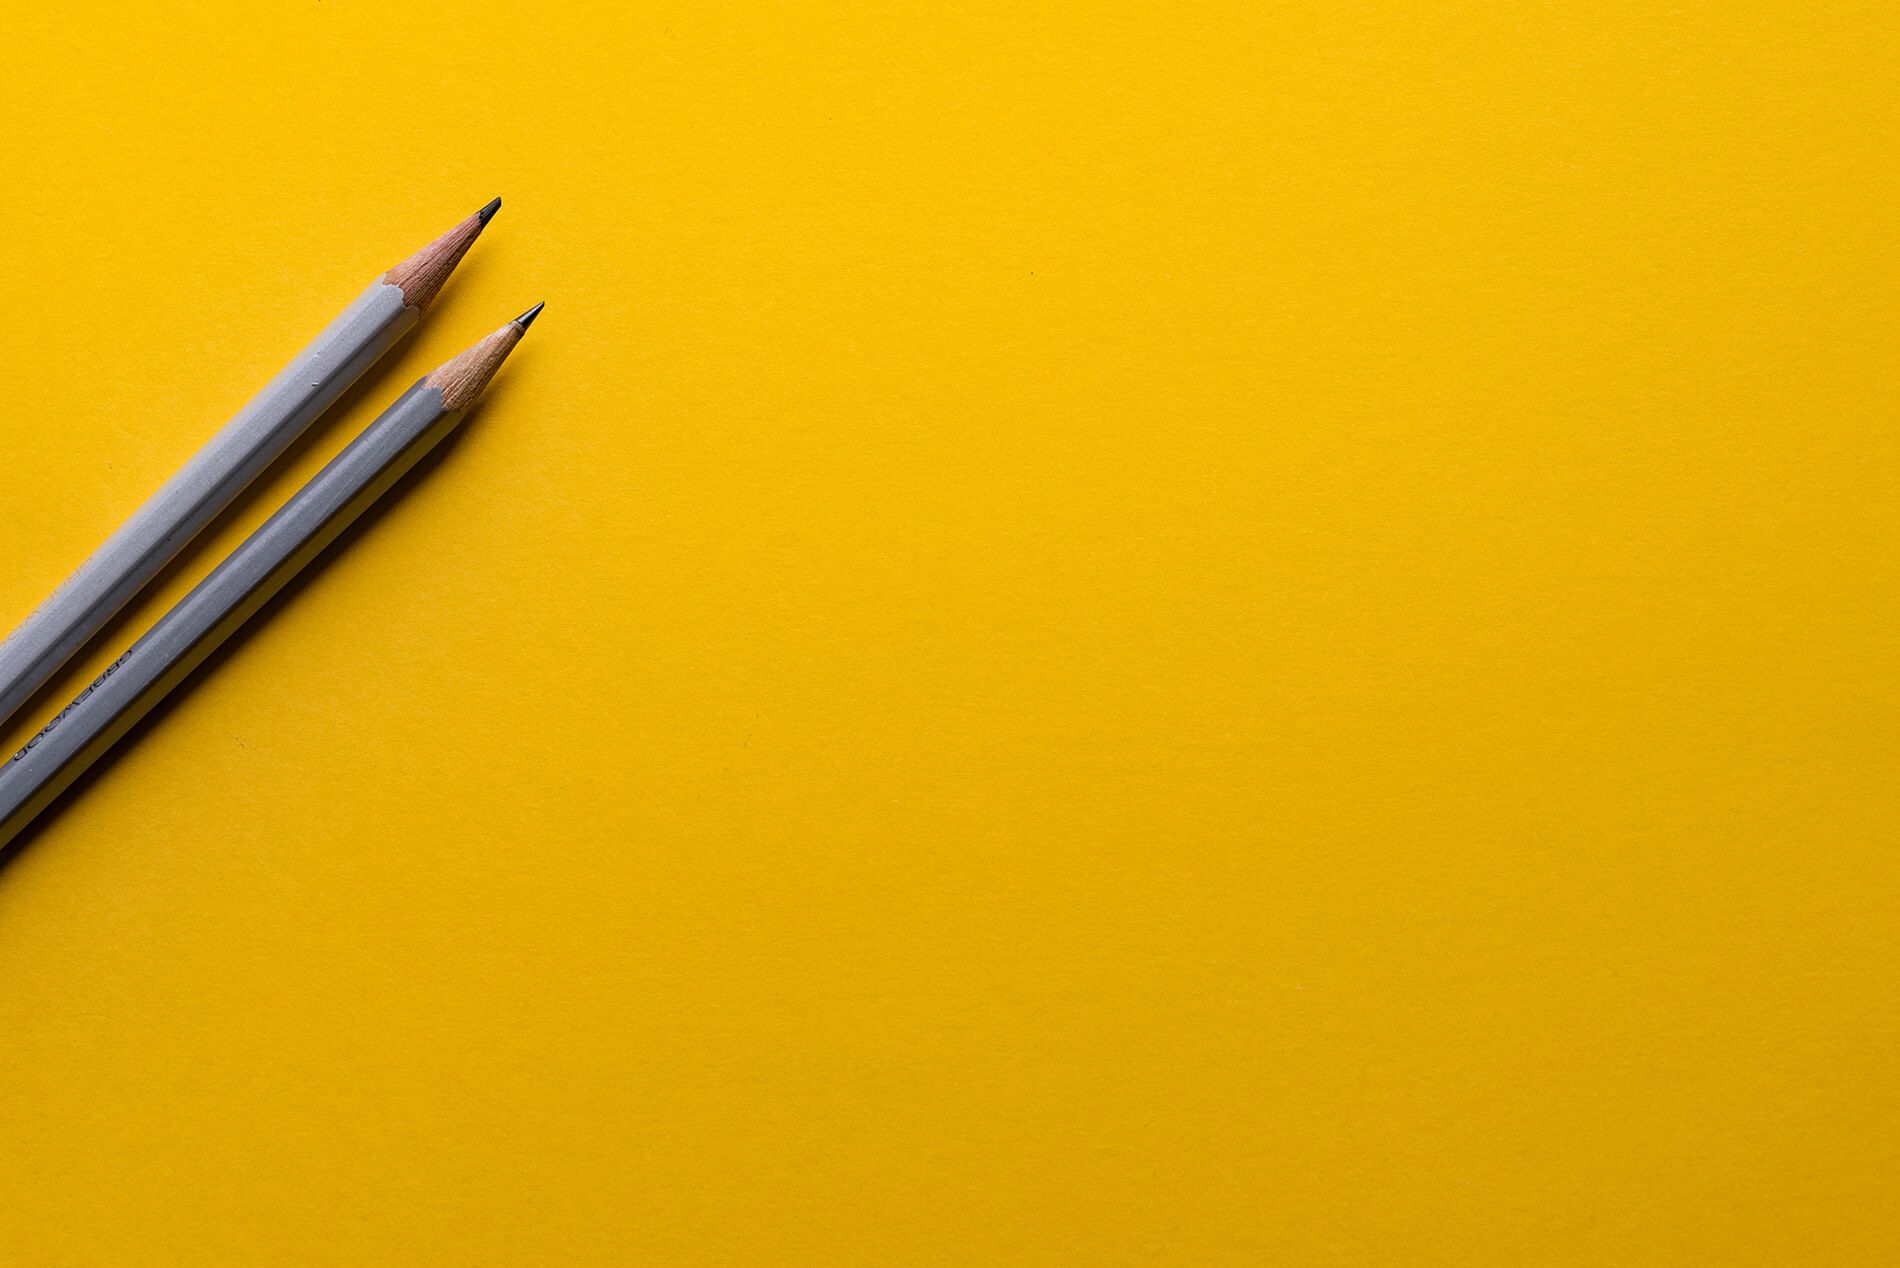
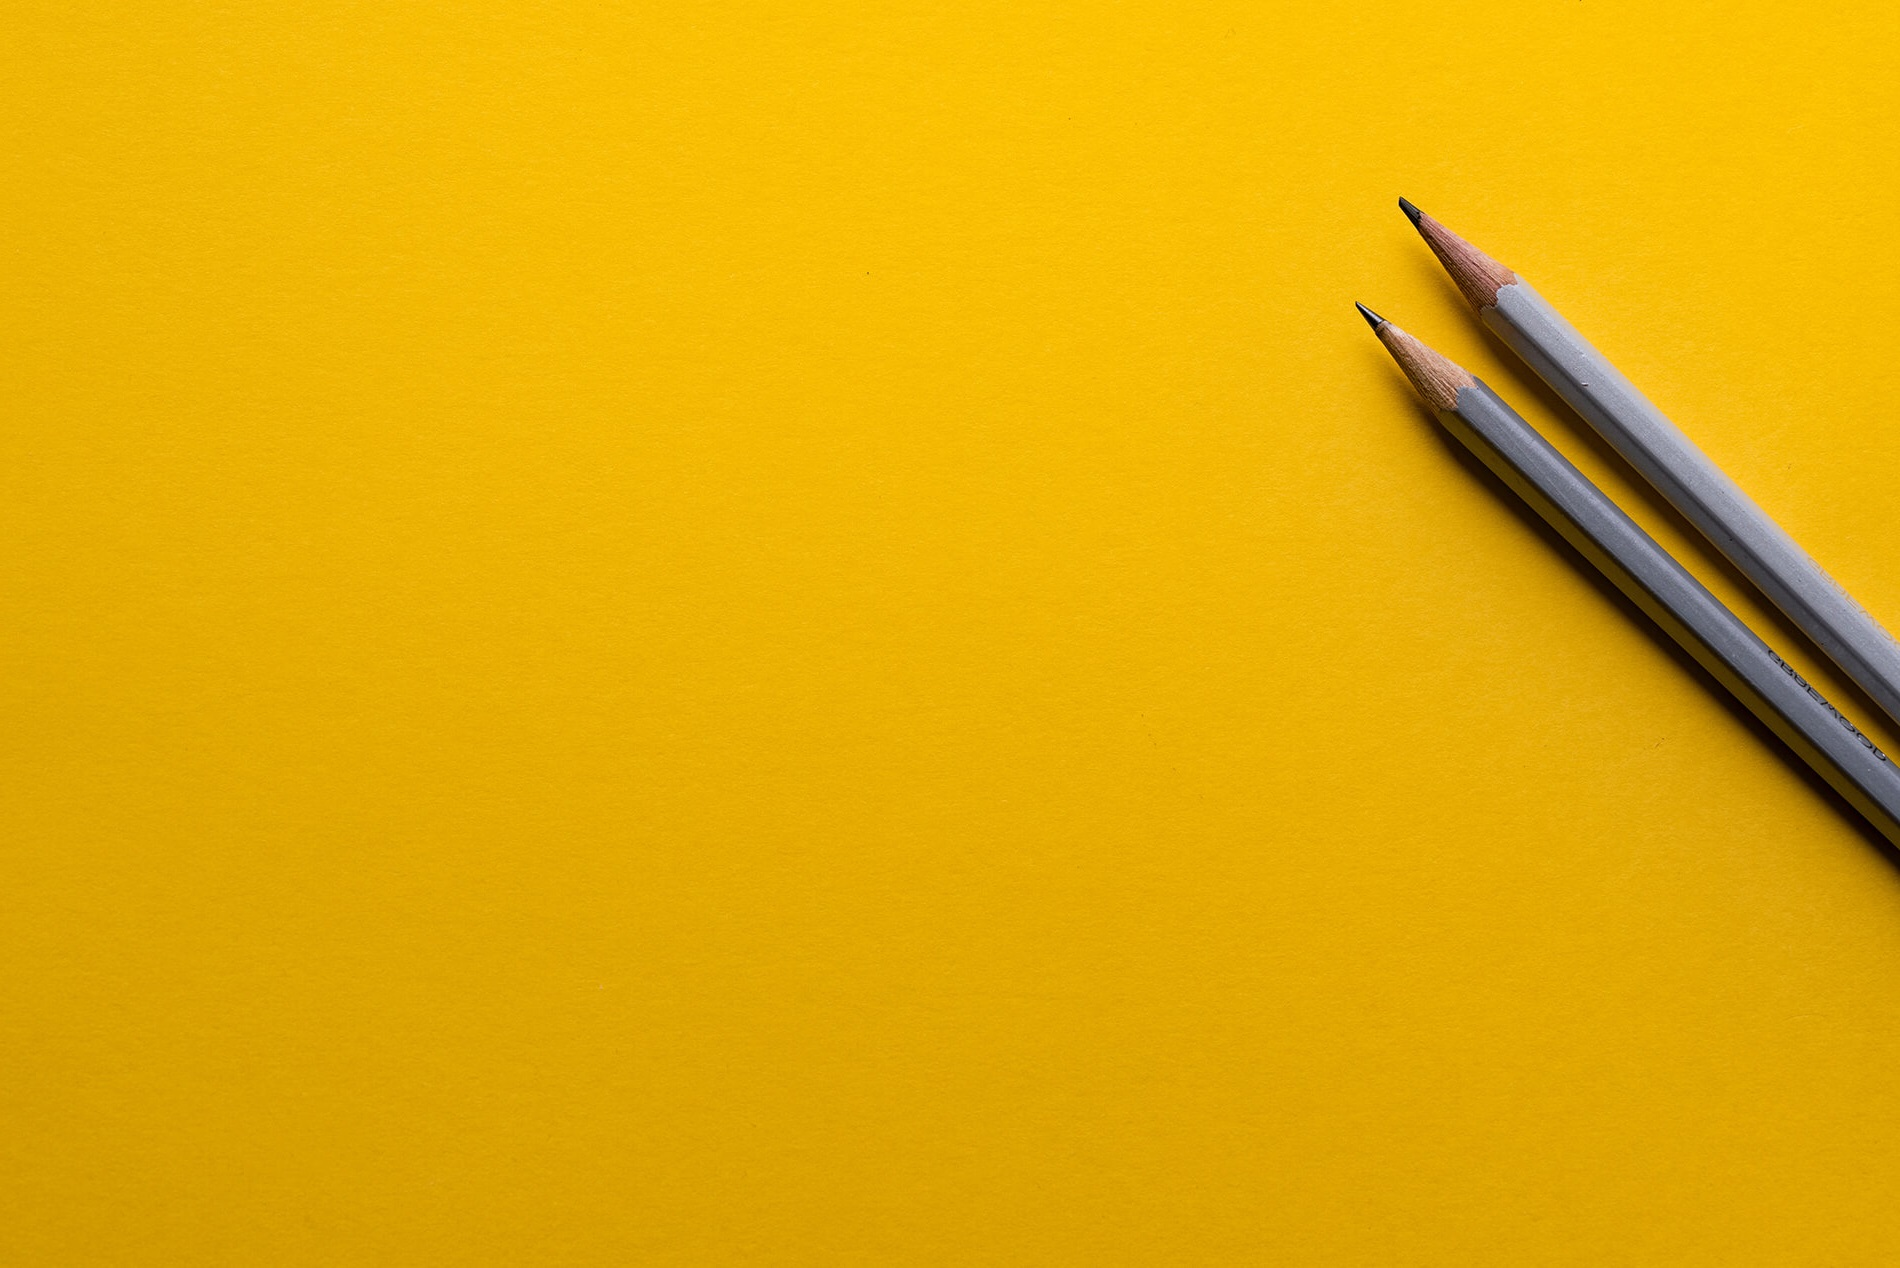
update pages

Changed region(s): [[0.7142, 0.1538, 1.0, 0.7382], [0.0, 0.1538, 0.2795, 0.7382]]

diff --git a/src/main/resources/templates/note-create-edit.html b/src/main/resources/templates/note-create-edit.html
@@ -1,5 +1,5 @@
 <!doctype html>
-<html lang="en">
+<html lang="en" xmlns:th="http://www.w3.org/1999/xhtml">
 <head>
   <meta charset="UTF-8">
   <meta name="viewport"
@@ -8,6 +8,11 @@
   <link href="https://cdn.jsdelivr.net/npm/bootstrap@5.0.2/dist/css/bootstrap.min.css"
         rel="stylesheet" integrity="sha384-EVSTQN3/azprG1Anm3QDgpJLIm9Nao0Yz1ztcQTwFspd3yD65VohhpuuCOmLASjC"
         crossorigin="anonymous">
+  <link rel="stylesheet" href="/assets/bootstrap/css/bootstrap.min.css">
+  <link rel="stylesheet" href="https://fonts.googleapis.com/css?family=Source+Sans+Pro:300,400,700,300italic,400italic,700italic&amp;display=swap">
+  <link rel="stylesheet" href="/assets/css/login-form-styles.css">
+  <link rel="stylesheet" href="/assets/css/login-form.css">
+  <link rel="shortcut icon" href="/assets/img/note.png" type="image/png">
   <style>
     a{
       display: flex;
@@ -15,10 +20,10 @@
       justify-content: center
     }
     body {
-      background-image: url("/assets/img/bg-masthead.jpg");
-      background-repeat: repeat;
-      background-size: cover;
-      background-position: center;
+    background-image: url("/assets/img/bg-masthead.jpg");
+    background-repeat: repeat;
+    background-size: cover;
+    background-position: top;
     }
   </style>
   <title>Нотатки</title>
@@ -37,11 +42,13 @@
     </div>
     <div class="float-lg-start w-50">
       <div class="col-4 ">
-        <input class="form-check-input" type="radio" name="accessType" value="private" id="private" th:checked="(${private}) or (${private} == null and ${public} == null)">
+        <input class="form-check-input" type="radio" name="accessType" value="private" id="private"
+               th:checked="${note == null || (note != null && note.getAccessType =='private')}">
         <label class="form-check-label" for="private">
           Private
         </label>
-        <input class="form-check-input" type="radio" name="accessType" value="public" id="public" th:checked="${public}">
+        <input class="form-check-input" type="radio" name="accessType" value="public" id="public"
+               th:checked="${note != null && note.getAccessType =='public'}">
         <label class="form-check-label" for="public">
           Public
         </label>

diff --git a/src/main/resources/templates/note-list.html b/src/main/resources/templates/note-list.html
@@ -1,5 +1,5 @@
 <!doctype html>
-<html lang="en">
+<html lang="en" xmlns:th="http://www.w3.org/1999/xhtml">
 <head>
   <meta charset="UTF-8">
   <meta name="viewport"
@@ -8,6 +8,11 @@
   <link href="https://cdn.jsdelivr.net/npm/bootstrap@5.0.2/dist/css/bootstrap.min.css"
         rel="stylesheet" integrity="sha384-EVSTQN3/azprG1Anm3QDgpJLIm9Nao0Yz1ztcQTwFspd3yD65VohhpuuCOmLASjC"
         crossorigin="anonymous">
+  <link rel="stylesheet" href="/assets/bootstrap/css/bootstrap.min.css">
+  <link rel="stylesheet" href="https://fonts.googleapis.com/css?family=Source+Sans+Pro:300,400,700,300italic,400italic,700italic&amp;display=swap">
+  <link rel="stylesheet" href="/assets/css/login-form-styles.css">
+  <link rel="stylesheet" href="/assets/css/login-form.css">
+  <link rel="shortcut icon" href="/assets/img/note.png" type="image/png">
   <style>
     a{
       display: flex;
@@ -18,11 +23,15 @@
       align-items: center;
       display: flex;
     }
+    #total-notes{
+      align-items: center;
+      display: flex;
+    }
     body {
     background-image: url("/assets/img/bg-masthead.jpg");
     background-repeat: repeat;
     background-size: cover;
-    background-position: center;
+    background-position: top;
     }
   </style>
   <title>Нотатки</title>
@@ -40,10 +49,8 @@
         Додати нотатку
       </a>
       </li>
-      <li class="nav-item p-2">
-      <button type="button" class="btn btn-primary">
-        Всього нотаток <span class="badge bg-danger" th:text="${noteList.size()}">4</span>
-      </button>
+      <li class="nav-item p-2" id="total-notes" style="line-height: 100%">
+        <span> Всього нотаток <b  th:text="${noteList.size()}">4</b></span>
       </li>
     </ul>
     <ul class="nav">

diff --git a/src/main/resources/templates/note-share.html b/src/main/resources/templates/note-share.html
@@ -1,5 +1,5 @@
 <!doctype html>
-<html lang="en">
+<html lang="en" xmlns:th="http://www.w3.org/1999/xhtml">
 <head>
   <meta charset="UTF-8">
   <meta name="viewport"
@@ -8,6 +8,11 @@
   <link href="https://cdn.jsdelivr.net/npm/bootstrap@5.0.2/dist/css/bootstrap.min.css"
         rel="stylesheet" integrity="sha384-EVSTQN3/azprG1Anm3QDgpJLIm9Nao0Yz1ztcQTwFspd3yD65VohhpuuCOmLASjC"
         crossorigin="anonymous">
+  <link rel="stylesheet" href="/assets/bootstrap/css/bootstrap.min.css">
+  <link rel="stylesheet" href="https://fonts.googleapis.com/css?family=Source+Sans+Pro:300,400,700,300italic,400italic,700italic&amp;display=swap">
+  <link rel="stylesheet" href="/assets/css/login-form-styles.css">
+  <link rel="stylesheet" href="/assets/css/login-form.css">
+  <link rel="shortcut icon" href="/assets/img/note.png" type="image/png">
   <style>
     a{
       display: flex;
@@ -18,7 +23,14 @@
     background-image: url("/assets/img/bg-masthead.jpg");
     background-repeat: repeat;
     background-size: cover;
-    background-position: center;
+    background-position: top;
+    }
+    .error-message {
+    font-size: 35px;
+    position: absolute;
+  top: 50%;
+  left: 50%;
+  transform: translate(-50%, -50%);
     }
   </style>
   <title>Нотатки</title>
@@ -30,10 +42,10 @@
        <h2 class="mt-2" th:utext="${note.content}"></h2>
       </div>
       <div th:unless="${note != null}">
-        <div class="row justify-content-center align-items-center">
+        <div class="error-message row justify-content-center align-items-center">
           Такої нотатки не існує :(
         </div>
-        </div>
+      </div>
     </div>
   </body>
 </html>

diff --git a/src/main/resources/templates/register.html b/src/main/resources/templates/register.html
@@ -1,18 +1,19 @@
 <!DOCTYPE html>
-<html>
+<html xmlns:th="http://www.w3.org/1999/xhtml">
 
 <head>
     <meta charset="utf-8">
     <meta name="viewport" content="width=device-width, initial-scale=1.0, shrink-to-fit=no">
-    <title>Home - Brand</title>
+    <title>Нотатки</title>
     <link rel="stylesheet" href="assets/bootstrap/css/bootstrap.min.css">
     <link rel="stylesheet" href="https://fonts.googleapis.com/css?family=Source+Sans+Pro:300,400,700,300italic,400italic,700italic&amp;display=swap">
     <link rel="stylesheet" href="assets/css/login-form-styles.css">
     <link rel="stylesheet" href="assets/css/login-form.css">
+    <link rel="shortcut icon" href="/assets/img/note.png" type="image/png">
 </head>
 
 <body id="page-top">
-    <header class="d-flex masthead" style="background-image:url('assets/img/bg-masthead.jpg');">
+    <header class="d-flex masthead" style="background-image:url('assets/img/bg-callout.jpg');">
         <div class="container full-height">
             <div class="row flex center v-center full-height">
                 <div class="col-8 col-sm-4">
@@ -33,8 +34,8 @@
             </div>
         </div>
     </header>
-    <script src="../../webapp/assets/bootstrap/js/bootstrap.min.js"></script>
-    <script src="../../webapp/assets/js/stylish-portfolio.js"></script>
+    <script src="/assets/bootstrap/js/bootstrap.min.js"></script>
+    <script src="/webapp/assets/js/stylish-portfolio.js"></script>
 </body>
 
 </html>

diff --git a/src/main/resources/templates/note-create-edit-error-page.html b/src/main/resources/templates/note-create-edit-error-page.html
@@ -8,6 +8,11 @@
     <link href="https://cdn.jsdelivr.net/npm/bootstrap@5.0.2/dist/css/bootstrap.min.css"
           rel="stylesheet" integrity="sha384-EVSTQN3/azprG1Anm3QDgpJLIm9Nao0Yz1ztcQTwFspd3yD65VohhpuuCOmLASjC"
           crossorigin="anonymous">
+    <link rel="stylesheet" href="/assets/bootstrap/css/bootstrap.min.css">
+    <link rel="stylesheet" href="https://fonts.googleapis.com/css?family=Source+Sans+Pro:300,400,700,300italic,400italic,700italic&amp;display=swap">
+    <link rel="stylesheet" href="/assets/css/login-form-styles.css">
+    <link rel="stylesheet" href="/assets/css/login-form.css">
+    <link rel="shortcut icon" href="/assets/img/note.png" type="image/png">
     <style>
         .row {
             height: 100vh;
@@ -18,7 +23,7 @@
             background-image: url("/assets/img/bg-masthead.jpg");
             background-repeat: repeat;
             background-size: cover;
-            background-position: center;
+            background-position: top;
         }
 
     </style>

diff --git a/src/main/resources/templates/login.html b/src/main/resources/templates/login.html
@@ -1,14 +1,15 @@
 <!DOCTYPE html>
-<html>
+<html xmlns:th="http://www.w3.org/1999/xhtml">
 
 <head>
     <meta charset="utf-8">
     <meta name="viewport" content="width=device-width, initial-scale=1.0, shrink-to-fit=no">
-    <title>Home - Brand</title>
+    <title>Нотатки</title>
     <link rel="stylesheet" href="/assets/bootstrap/css/bootstrap.min.css">
     <link rel="stylesheet" href="https://fonts.googleapis.com/css?family=Source+Sans+Pro:300,400,700,300italic,400italic,700italic&amp;display=swap">
     <link rel="stylesheet" href="/assets/css/login-form-styles.css">
     <link rel="stylesheet" href="/assets/css/login-form.css">
+    <link rel="shortcut icon" href="/assets/img/note.png" type="image/png">
 </head>
 
 <body id="page-top">
